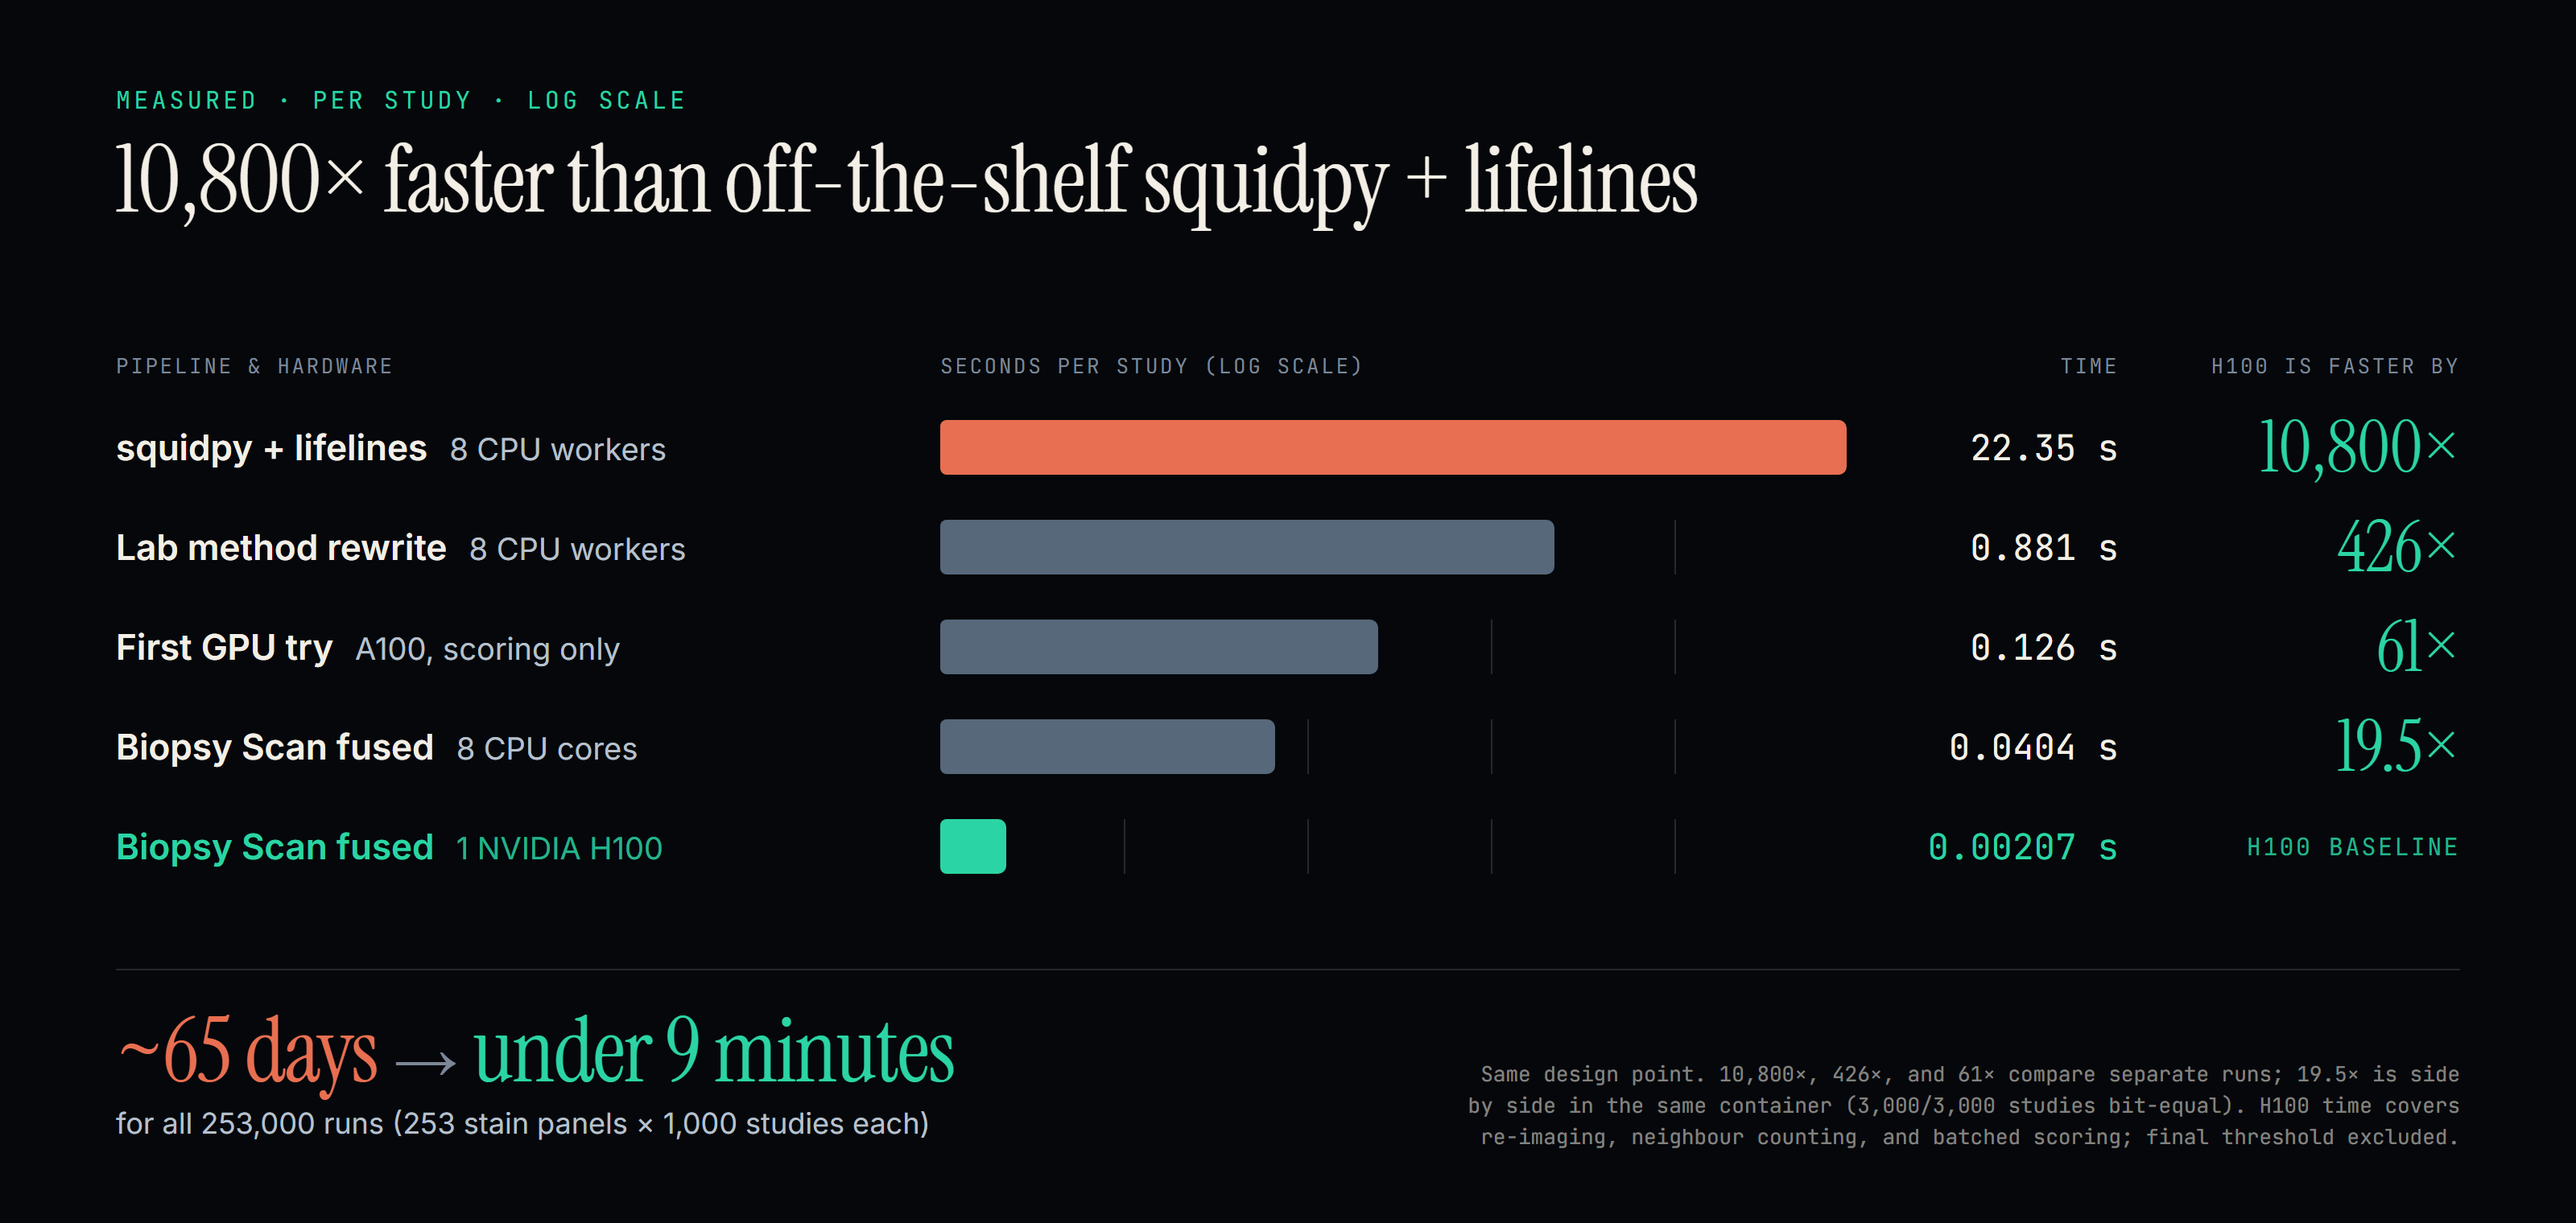
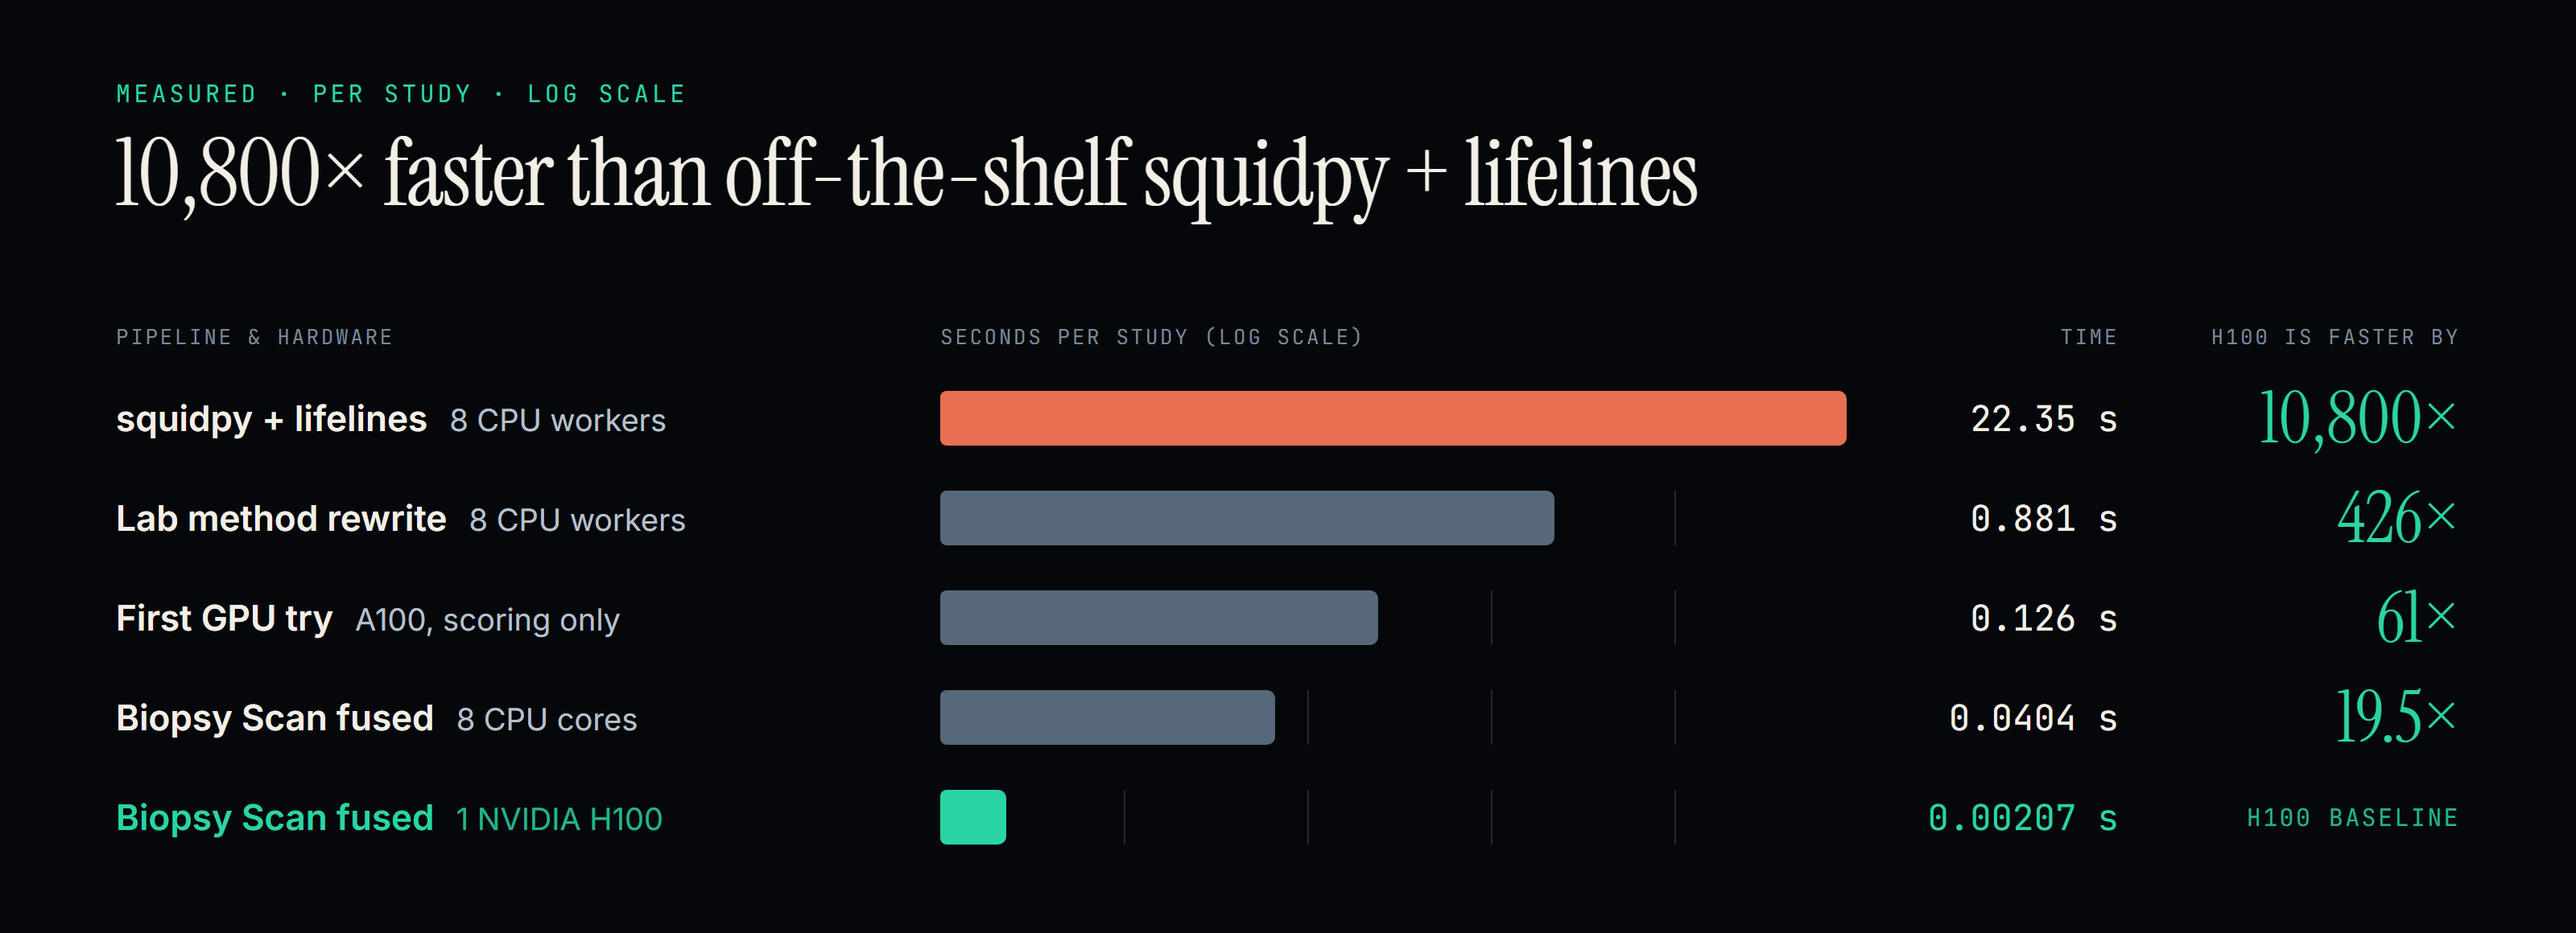
docs: drop chart footer and update claim mutation tests for README chart

diff --git a/tests/test_claims.py b/tests/test_claims.py
@@ -77,18 +77,9 @@ def test_a_derived_range_follows_its_source(copy):
 
 
 MUTANTS = [  # (kind, file, published text, mutant): each must make the check fail
-    ("value", "README.md", "**534× faster**", "**634× faster**"),
-    ("prose", "README.md", "the timing windows differ", "the timing windows match"),
-    ("value", "README.md", "**21× faster**", "**31× faster**"),
-    ("prose", "README.md", "**MEASURED**, cross-run)", "**MEASURED**, same run)"),
-    ("value", "README.md", "| 22.35 s |", "| 12.35 s |"),
-    ("value", "README.md", "| 0.881 s |", "| 0.781 s |"),
-    ("value", "README.md", "312× on the same 48 studies", "412× on the same 48 studies"),
-    ("prose", "README.md", "; different statistics;", "; same statistics;"),
     ("value", "README.md", "| **27.0%** (95% CI 22.1–32.4%) |", "| **37.0%** (95% CI 22.1–32.4%) |"),
     ("value", "README.md", "| 80.1% |", "| 90.1% |"),
     ("label", "README.md", "Schoenfeld formula (**ANALYTIC**)", "Schoenfeld formula (**MEASURED**)"),
-    ("value", "README.md", "8 CPU workers per side", "16 CPU workers per side"),
     ("value", "RESULTS.md", "`68.3%`", "`98.3%`"),
     ("value", "RESULTS.md", "NumPy `2.24 s`", "NumPy `2.34 s`"),
     ("value", "RESULTS.md", "843.7→128.2 s", "843.7→118.2 s"),
@@ -112,9 +103,6 @@ MUTANTS = [  # (kind, file, published text, mutant): each must make the check fa
     ("prose", "RESULTS.md", "the calibrated cutoff and calls are outside the timing, as are load", "the calibrated cutoff and calls are inside the timing, as are load"),
     ("prose", "docs/SUBMISSION.md", "the cutoff and calls are outside the timing; #120", "the cutoff and calls are inside the timing; #120"),
     ("value", "demo/index.html", "<b>21×</b> less compute wall", "<b>31×</b> less compute wall"),
-    ("value", "README.md", "**5.5× faster**", "**6.5× faster**"),
-    ("value", "README.md", "decisions agree on 362 of 400", "decisions agree on 352 of 400"),
-    ("value", "README.md", "**19.5× faster**", "**29.5× faster**"),
     ("value", "docs/JUDGING.md", "calibration nulls included), 21.0×.", "calibration nulls included), 31.0×."),
     ("value", "demo/data/baseline.json", '"seconds": 377.67,', '"seconds": 37.67,'),
     ("label", "demo/data/baseline.json", '"label": "MEASURED",\n      "seconds": 375.26,', '"label": "ESTIMATE",\n      "seconds": 375.26,'),
